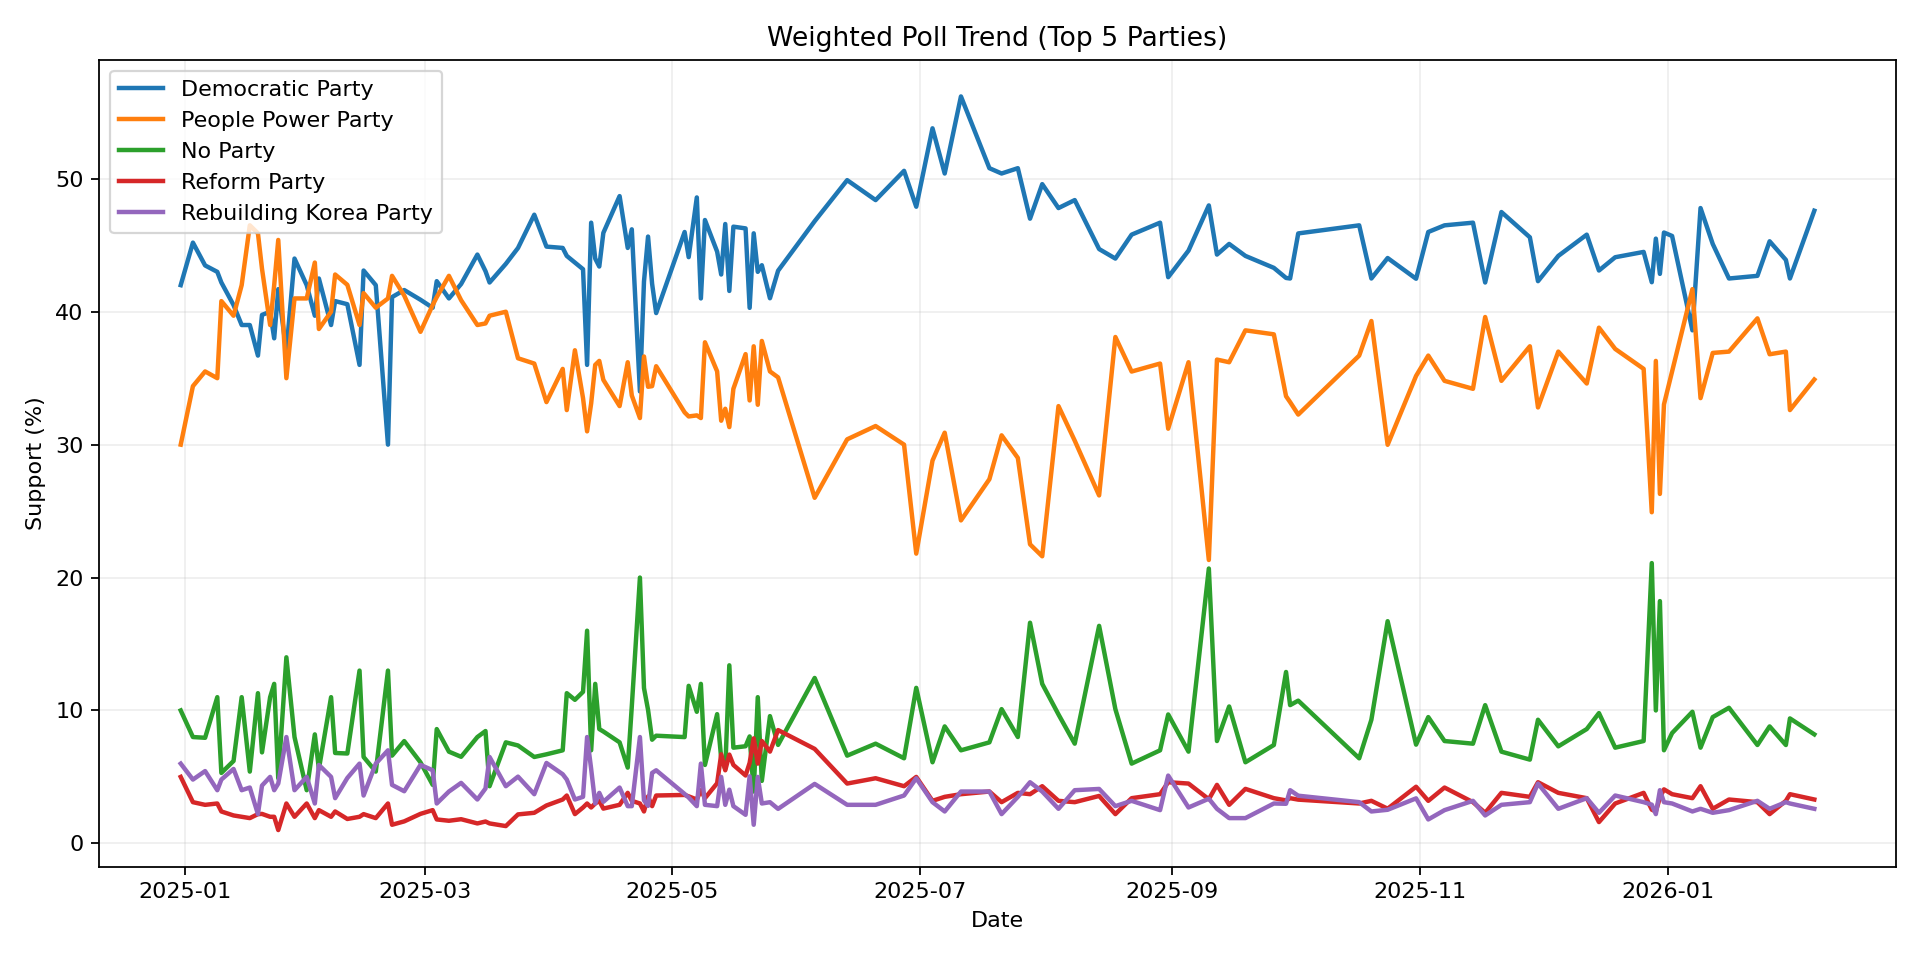
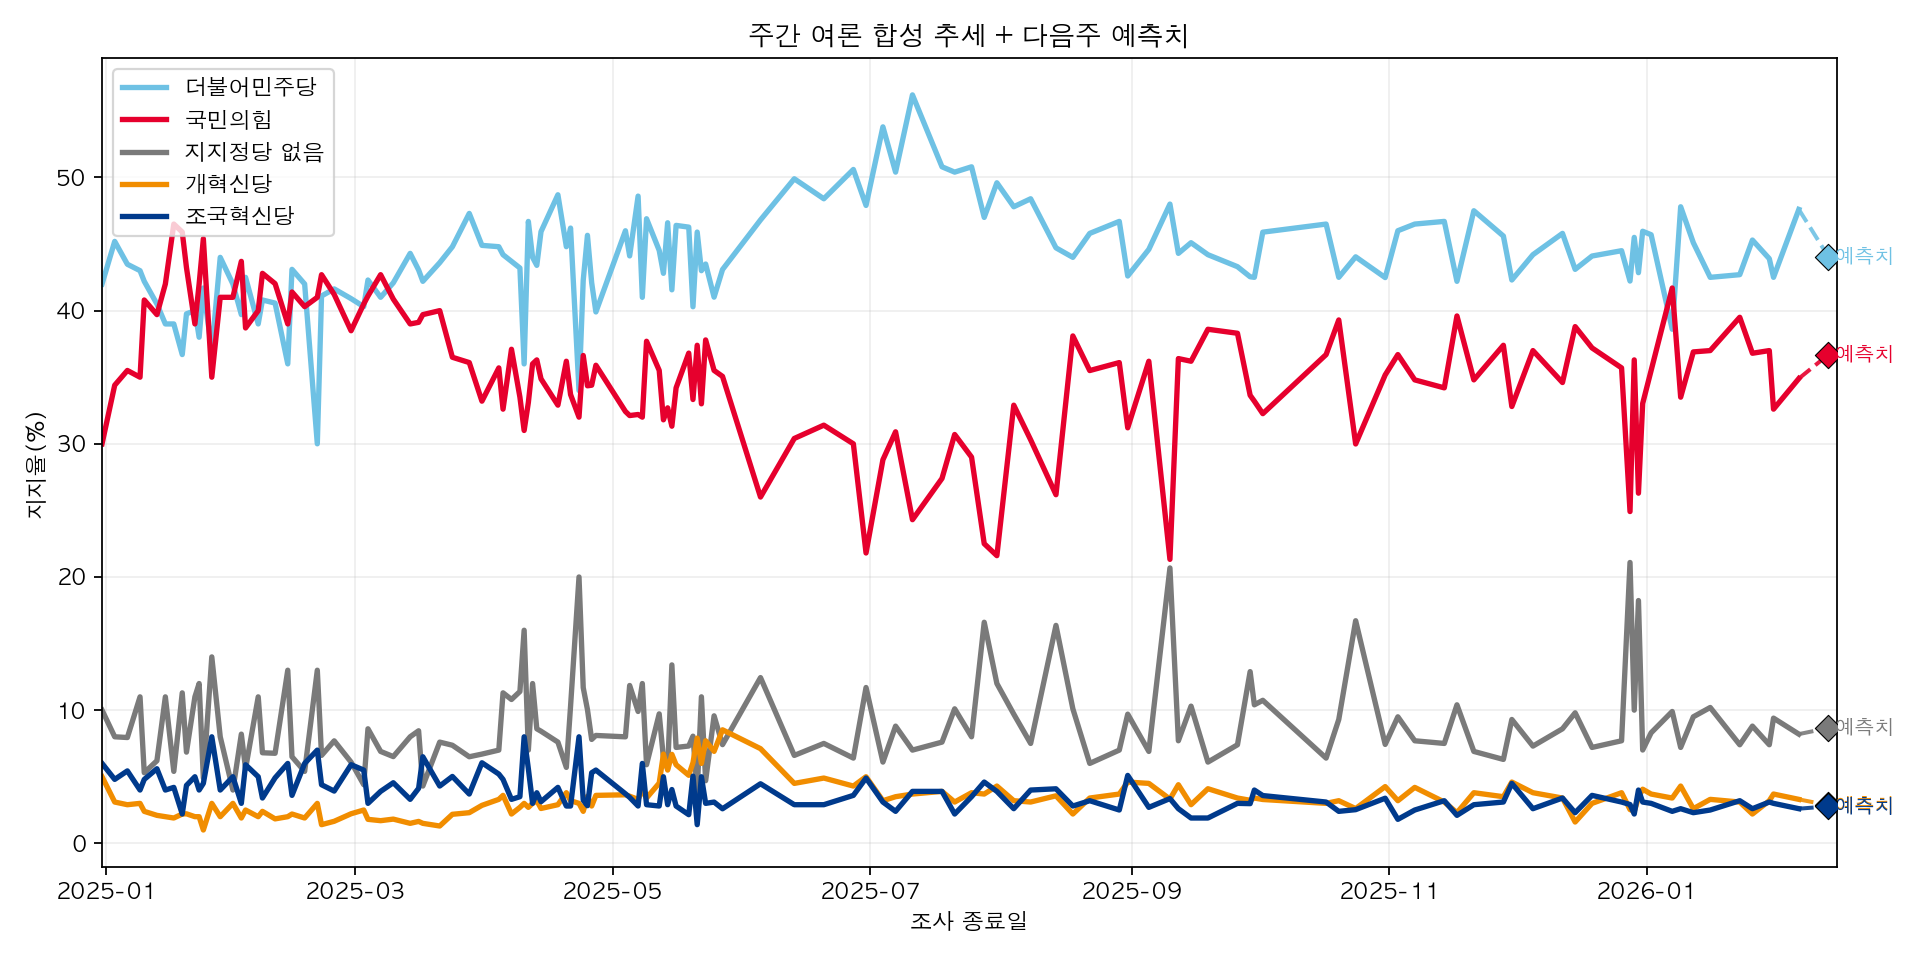
Apply Korean party colors and overlay next-week predictions on trend chart

diff --git a/codex_handoff_pack/docs/index.html b/codex_handoff_pack/docs/index.html
@@ -15,21 +15,16 @@
 </head>
 <body>
   <h1>주간 여론 합성/예측 대시보드</h1>
-  <div class="meta">최근 조사 반영일: 2026-02-06 | 페이지 갱신: 2026-02-16 19:48:45 KST</div>
+  <div class="meta">최근 조사 반영일: 2026-02-06 | 페이지 갱신: 2026-02-16 20:05:00 KST</div>
 
-  <h2>합성 추세 (상위 5개 정당)</h2>
+  <h2>합성 추세 + 다음주 예측치(우측 마커)</h2>
   <img src="assets/trend_top5.png" alt="Trend chart" />
-
-  <h2>다음 주 예측</h2>
-  <img src="assets/forecast_next_week.png" alt="Forecast chart" />
 
   <h3>예측 표</h3>
   <table>
     <thead><tr><th>정당</th><th>예측치(%)</th><th>RMSE</th></tr></thead>
     <tbody>
-      <tr><td>더불어민주당</td><td>44.05</td><td>1.59</td></tr><tr><td>국민의힘</td><td>36.70</td><td>2.14</td></tr><tr><td>지지정당
-없음</td><td>8.66</td><td>1.33</td></tr><tr><td>개혁신당</td><td>2.86</td><td>0.68</td></tr><tr><td>조국혁신당</td><td>2.77</td><td>0.53</td></tr><tr><td>기타정당</td><td>2.40</td><td>0.91</td></tr><tr><td>진보당</td><td>1.41</td><td>0.25</td></tr><tr><td>모름/
-무응답</td><td>1.12</td><td>0.28</td></tr>
+      <tr><td>더불어민주당</td><td>44.05</td><td>1.59</td></tr><tr><td>국민의힘</td><td>36.70</td><td>2.14</td></tr><tr><td>지지정당 없음</td><td>8.66</td><td>1.33</td></tr><tr><td>개혁신당</td><td>2.86</td><td>0.68</td></tr><tr><td>조국혁신당</td><td>2.77</td><td>0.53</td></tr>
     </tbody>
   </table>
 

diff --git a/codex_handoff_pack/src/generate_site.py b/codex_handoff_pack/src/generate_site.py
@@ -5,18 +5,38 @@ from pathlib import Path
 from zoneinfo import ZoneInfo
 
 import matplotlib.pyplot as plt
+from matplotlib import font_manager
 import pandas as pd
 
-PLOT_LABEL_MAP = {
-    "더불어민주당": "Democratic Party",
-    "국민의힘": "People Power Party",
-    "조국혁신당": "Rebuilding Korea Party",
-    "개혁신당": "Reform Party",
-    "진보당": "Progressive Party",
-    "기타정당": "Other Parties",
-    "지지정당\n없음": "No Party",
-    "모름/\n무응답": "Undecided/No response",
+PARTY_STYLES = {
+    "더불어민주당": {"color": "#6EC1E4", "aliases": ["더불어민주당"]},
+    "국민의힘": {"color": "#E6002D", "aliases": ["국민의힘", "국민의 힘"]},
+    "지지정당 없음": {"color": "#7A7A7A", "aliases": ["지지정당\n없음", "지지정당 없음", "무당층"]},
+    "개혁신당": {"color": "#F18D00", "aliases": ["개혁신당"]},
+    "조국혁신당": {"color": "#003A8C", "aliases": ["조국혁신당"]},
 }
+PARTY_ORDER = ["더불어민주당", "국민의힘", "지지정당 없음", "개혁신당", "조국혁신당"]
+
+
+def setup_korean_font() -> None:
+    # Keep deterministic order for CI and local environments.
+    for font_name in ["NanumGothic", "AppleGothic", "Malgun Gothic", "Noto Sans CJK KR"]:
+        try:
+            font_manager.findfont(font_name, fallback_to_default=False)
+            plt.rcParams["font.family"] = font_name
+            break
+        except Exception:
+            continue
+    plt.rcParams["axes.unicode_minus"] = False
+
+
+def canonical_party_name(name: str) -> str:
+    s = str(name).strip().replace("  ", " ")
+    for canonical, meta in PARTY_STYLES.items():
+        for a in meta["aliases"]:
+            if s == a:
+                return canonical
+    return s
 
 
 def load_blended(outputs: Path) -> pd.DataFrame:
@@ -43,52 +63,56 @@ def load_forecast(outputs: Path) -> pd.DataFrame:
     raise FileNotFoundError("No forecast workbook found in outputs/")
 
 
-def pick_top_parties(blended: pd.DataFrame, n: int = 5) -> list[str]:
-    cols = [c for c in blended.columns if c not in {"date_end", "n_polls"}]
-    last = blended.sort_values("date_end").iloc[-1]
-    ranked = sorted(cols, key=lambda c: float(last.get(c, 0.0) if pd.notna(last.get(c, 0.0)) else 0.0), reverse=True)
-    return ranked[:n]
-
-
-def draw_trend(blended: pd.DataFrame, out_png: Path) -> None:
+def draw_trend_with_forecast(blended: pd.DataFrame, forecast: pd.DataFrame, out_png: Path) -> pd.DataFrame:
     df = blended.copy()
     df["date_end"] = pd.to_datetime(df["date_end"])
     df = df.sort_values("date_end")
+    df = df.rename(columns={c: canonical_party_name(c) for c in df.columns})
 
-    parties = pick_top_parties(df, n=5)
+    fc = forecast.copy()
+    fc["party"] = fc["party"].map(canonical_party_name)
+    fc["next_week_pred"] = pd.to_numeric(fc["next_week_pred"], errors="coerce")
+    fc = fc.dropna(subset=["next_week_pred"])
+
+    setup_korean_font()
     plt.figure(figsize=(12, 6))
-    for p in parties:
-        plt.plot(df["date_end"], df[p], label=PLOT_LABEL_MAP.get(p, p), linewidth=2)
+    pred_date = pd.to_datetime(df["date_end"]).max() + pd.Timedelta(days=7)
+    rows = []
+    for party in PARTY_ORDER:
+        if party not in df.columns:
+            continue
+        color = PARTY_STYLES[party]["color"]
+        s = pd.to_numeric(df[party], errors="coerce")
+        plt.plot(df["date_end"], s, label=party, linewidth=2.4, color=color)
 
-    plt.title("Weighted Poll Trend (Top 5 Parties)")
-    plt.xlabel("Date")
-    plt.ylabel("Support (%)")
+        last_idx = s.last_valid_index()
+        if last_idx is None:
+            continue
+        last_date = pd.to_datetime(df.loc[last_idx, "date_end"])
+        last_y = float(s.loc[last_idx])
+        pred_row = fc[fc["party"] == party]
+        if pred_row.empty:
+            continue
+        pred_y = float(pred_row.iloc[0]["next_week_pred"])
+        rmse_v = pred_row.iloc[0].get("rmse")
+        rmse_txt = f"{float(rmse_v):.2f}" if pd.notna(rmse_v) else "-"
+
+        plt.plot([last_date, pred_date], [last_y, pred_y], linestyle="--", linewidth=1.8, color=color, alpha=0.9)
+        plt.scatter([pred_date], [pred_y], color=color, s=70, marker="D", edgecolors="black", linewidths=0.5, zorder=5)
+        plt.text(pred_date, pred_y, " 예측치", fontsize=9, color=color, va="center")
+        rows.append({"party": party, "next_week_pred": pred_y, "rmse": rmse_txt})
+
+    plt.title("주간 여론 합성 추세 + 다음주 예측치")
+    plt.xlabel("조사 종료일")
+    plt.ylabel("지지율(%)")
     plt.grid(alpha=0.2)
     plt.legend()
+    plt.xlim(pd.to_datetime(df["date_end"]).min(), pred_date + pd.Timedelta(days=2))
     plt.tight_layout()
     out_png.parent.mkdir(parents=True, exist_ok=True)
     plt.savefig(out_png, dpi=160)
     plt.close()
-
-
-def draw_forecast(forecast: pd.DataFrame, out_png: Path) -> pd.DataFrame:
-    df = forecast.copy()
-    df["next_week_pred"] = pd.to_numeric(df["next_week_pred"], errors="coerce")
-    df = df.dropna(subset=["next_week_pred"]).sort_values("next_week_pred", ascending=False)
-
-    plt.figure(figsize=(12, 6))
-    labels = [PLOT_LABEL_MAP.get(str(p), str(p)) for p in df["party"]]
-    plt.bar(labels, df["next_week_pred"])
-    plt.title("Next Week Forecast")
-    plt.xlabel("Party")
-    plt.ylabel("Predicted Support (%)")
-    plt.xticks(rotation=25, ha="right")
-    plt.grid(axis="y", alpha=0.2)
-    plt.tight_layout()
-    out_png.parent.mkdir(parents=True, exist_ok=True)
-    plt.savefig(out_png, dpi=160)
-    plt.close()
-    return df
+    return pd.DataFrame(rows).sort_values("next_week_pred", ascending=False)
 
 
 def render_html(docs_dir: Path, forecast_sorted: pd.DataFrame, latest_date: str) -> None:
@@ -120,11 +144,8 @@ def render_html(docs_dir: Path, forecast_sorted: pd.DataFrame, latest_date: str)
   <h1>주간 여론 합성/예측 대시보드</h1>
   <div class="meta">최근 조사 반영일: {latest_date} | 페이지 갱신: {now_kst}</div>
 
-  <h2>합성 추세 (상위 5개 정당)</h2>
+  <h2>합성 추세 + 다음주 예측치(우측 마커)</h2>
   <img src="assets/trend_top5.png" alt="Trend chart" />
-
-  <h2>다음 주 예측</h2>
-  <img src="assets/forecast_next_week.png" alt="Forecast chart" />
 
   <h3>예측 표</h3>
   <table>
@@ -151,8 +172,7 @@ def main():
     blended = load_blended(outputs)
     forecast = load_forecast(outputs)
 
-    draw_trend(blended, assets / "trend_top5.png")
-    sorted_fc = draw_forecast(forecast, assets / "forecast_next_week.png")
+    sorted_fc = draw_trend_with_forecast(blended, forecast, assets / "trend_top5.png")
 
     latest_date = str(pd.to_datetime(blended["date_end"]).max().date())
     render_html(docs, sorted_fc, latest_date=latest_date)
